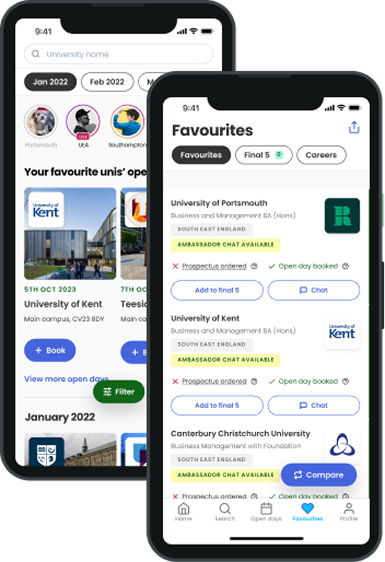
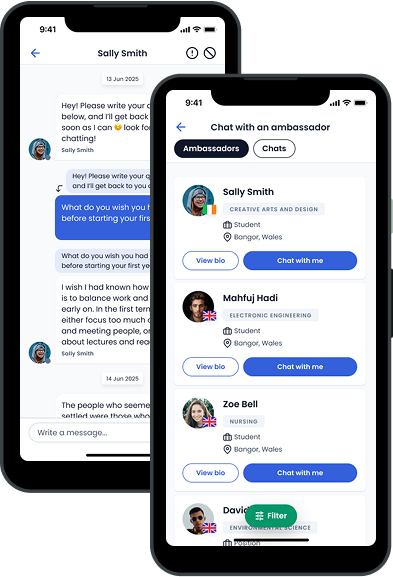
HEW-6151 #PROPECTUSES

diff --git a/packages/shared-components/user-profile/favourites/manage-favourites/managefavourites.tsx b/packages/shared-components/user-profile/favourites/manage-favourites/managefavourites.tsx
@@ -8,9 +8,8 @@ const ManageFavourites = () => {
       <div className="max-w-container mx-auto">
         <div className="grid grid-cols-1 md:grid-cols-2 md:gap-[20px]">
           <div className="flex items-end justify-center md:overflow-hidden">
-            <div className="w-[200px] pt-[40px] md:w-[384px] md:mb-[-100px] lg:mb-[-225px]">
+            <div className="w-[200px] pt-[40px] md:w-[384px] md:mb-[-100px] lg:mb-[-233px]">
               <Image
-                className="grow"
                 width={385}
                 height={344}
                 src="/static/assets/images/user-profile/favourites-device.png"
@@ -18,23 +17,24 @@ const ManageFavourites = () => {
               />
             </div>
           </div>
-          <div className="flex flex-col justify-center gap-[16px] py-[24px] py-[40px] md:py-[64px]">
-            <div>
+          <div className="flex flex-col justify-center gap-[16px] py-[24px] py-[40px] md:gap-[24px] md:py-[64px]">
+            <div className="md:space-y-[8px]">
               <div className="font-farro font-bold text-black text-heading3 md:text-heading2">
                 Actual uni tips. From real students.
               </div>
-              <p className="mt-[16px] md:mt-[8px] line-clamp-2">
+              <p className="mt-[16px] md:mt-0 line-clamp-2">
                 Use the Ambassador Chat in the Whatuni App to hear it straight
                 from students living it.
               </p>
+              <Image
+                className="hidden md:block cursor-pointer"
+                src="/static/assets/images/user-profile/favourites-qrcode.svg"
+                alt="QR Code"
+                width={107}
+                height={107}
+              />
             </div>
-            <Image
-              className="hidden lg:block cursor-pointer"
-              src="/static/assets/images/user-profile/favourites-qrcode.svg"
-              alt="QR Code"
-              width={107}
-              height={107}
-            />
+
             <div className="flex gap-[16px]">
               <Link href="#">
                 <Image

diff --git a/apps/whatuni/src/app/user-profile/favouritescourse/page.tsx b/apps/whatuni/src/app/user-profile/favouritescourse/page.tsx
@@ -10,6 +10,7 @@ import Othercoursesmaylikecomponents from "@packages/shared-components/common-ut
 import { userFavCourseData } from "@packages/constants/constants";
 import ResultPod from "@packages/shared-components/user-profile/favourites/result-pod/result-section";
 import { favouritesCourseData } from "@packages/constants/constants";
+// import FavouritesPopup from "@packages/shared-components/common-utilities/popups/FavouritesPopup";
 const FavouritesCoursePage = () => {
   const bgColor = "grey-50";
   const bgColor1 = "white";
@@ -17,6 +18,7 @@ const FavouritesCoursePage = () => {
 
   return (
     <>
+      {/* <FavouritesPopup /> */}
       <section className="bg-white p-[16px] md:px-[20px] lg:py-[40px] xl:px-0">
         <div className="max-w-container mx-auto">
           <div className="text-heading5 font-farro font-semibold mb-[16px] md:text-heading4">
@@ -48,8 +50,8 @@ const FavouritesCoursePage = () => {
         subheading={""}
       />
       <Subscribecomponents />
-      <div className="bg-white p-[12px] fixed bottom-0 w-[284px] rounded-[8px] shadow-custom-3">
-        <button className="cursor-pointer ml-auto flex">
+      {/* <div className="bg-white p-[12px] fixed bottom-0 w-[284px] rounded-[8px] shadow-custom-3">
+        <button className="absolute right-[8px] top-[8px] cursor-pointer ">
           <Image
             alt="close icon"
             width={14}
@@ -59,10 +61,11 @@ const FavouritesCoursePage = () => {
         </button>
         <div className="flex items-center gap-[12px]">
           <Image
+            className="rounded-[8px] shadow-custom-3"
             src="/static/assets/icons/search-result/kent.png"
             alt="University logo"
-            width={56}
-            height={56}
+            width={64}
+            height={64}
           />
           <div className="font-semibold x-small">
             Prospectus
@@ -72,7 +75,7 @@ const FavouritesCoursePage = () => {
             Downloaded
           </div>
         </div>
-      </div>
+      </div> */}
     </>
   );
 };

diff --git a/packages/shared-components/common-utilities/popups/FavouritesPopup.tsx b/packages/shared-components/common-utilities/popups/FavouritesPopup.tsx
@@ -1,0 +1,50 @@
+import Link from "next/link";
+import React from "react";
+
+const FavouritesPopup = (onClose: any) => {
+  return (
+    <>
+      <div className="fixed top-0 left-0 w-full h-full backdrop-shadow flex items-center justify-center z-50">
+        <div className="bg-white shadow-custom-6 w-full md:w-[375px] p-[24px] rounded-[8px] mx-[16px]">
+          <div
+            onClick={onClose}
+            className="flex items-center justify-end mt-[-8px] mr-[-8px] cursor-pointer"
+          >
+            <svg
+              width="14"
+              height="14"
+              viewBox="0 0 14 14"
+              fill="none"
+              xmlns="http://www.w3.org/2000/svg"
+            >
+              <path
+                className="stroke-grey300"
+                d="M1 13L13 1M1 1L13 13"
+                strokeWidth="2"
+                strokeLinecap="round"
+                strokeLinejoin="round"
+              />
+            </svg>
+          </div>
+          <div className="review-modal-container flex flex-col gap-[16px]">
+            <div className="heading6 font-farro font-semibold">
+              Are you sure?
+            </div>
+            <div className="small">
+              You've recently ordered a prospectus from this uni, do you want to
+              continue with this order?
+            </div>
+            <button
+              type="button"
+              className="btn btn-medium btn-primary font-semibold w-full flex items-center justify-center gap-[6px]"
+            >
+              Yes, continue
+            </button>
+          </div>
+        </div>
+      </div>
+    </>
+  );
+};
+
+export default FavouritesPopup;

diff --git a/packages/shared-components/user-profile/favourites/favourites.tsx b/packages/shared-components/user-profile/favourites/favourites.tsx
@@ -23,7 +23,7 @@ const Favourites = () => {
               Start searching now to find fantastic unis and courses
             </p>
           </div>
-          <button className="px-[16px] py-[8px] bg-white border border-primary-500 text-primary-500 rounded-[18px] hover:bg-primary-600 transition small font-semibold">
+          <button className="btn btn-small btn-primary-outline bg-white">
             Get started
           </button>
         </div>
